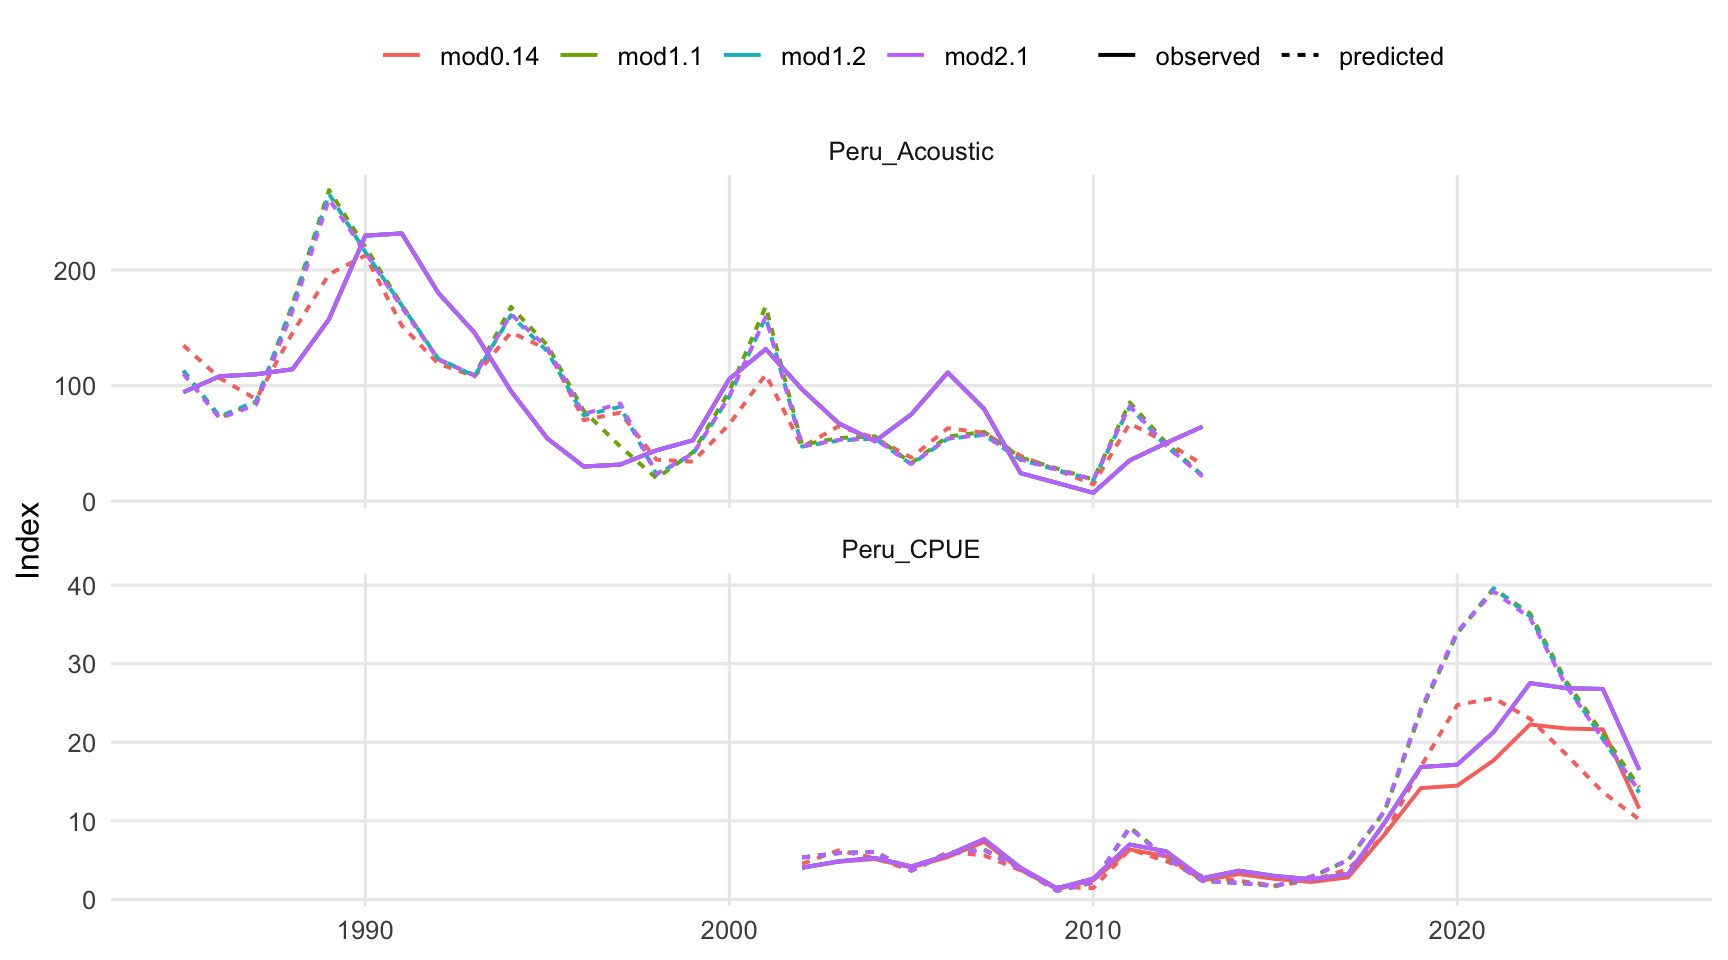
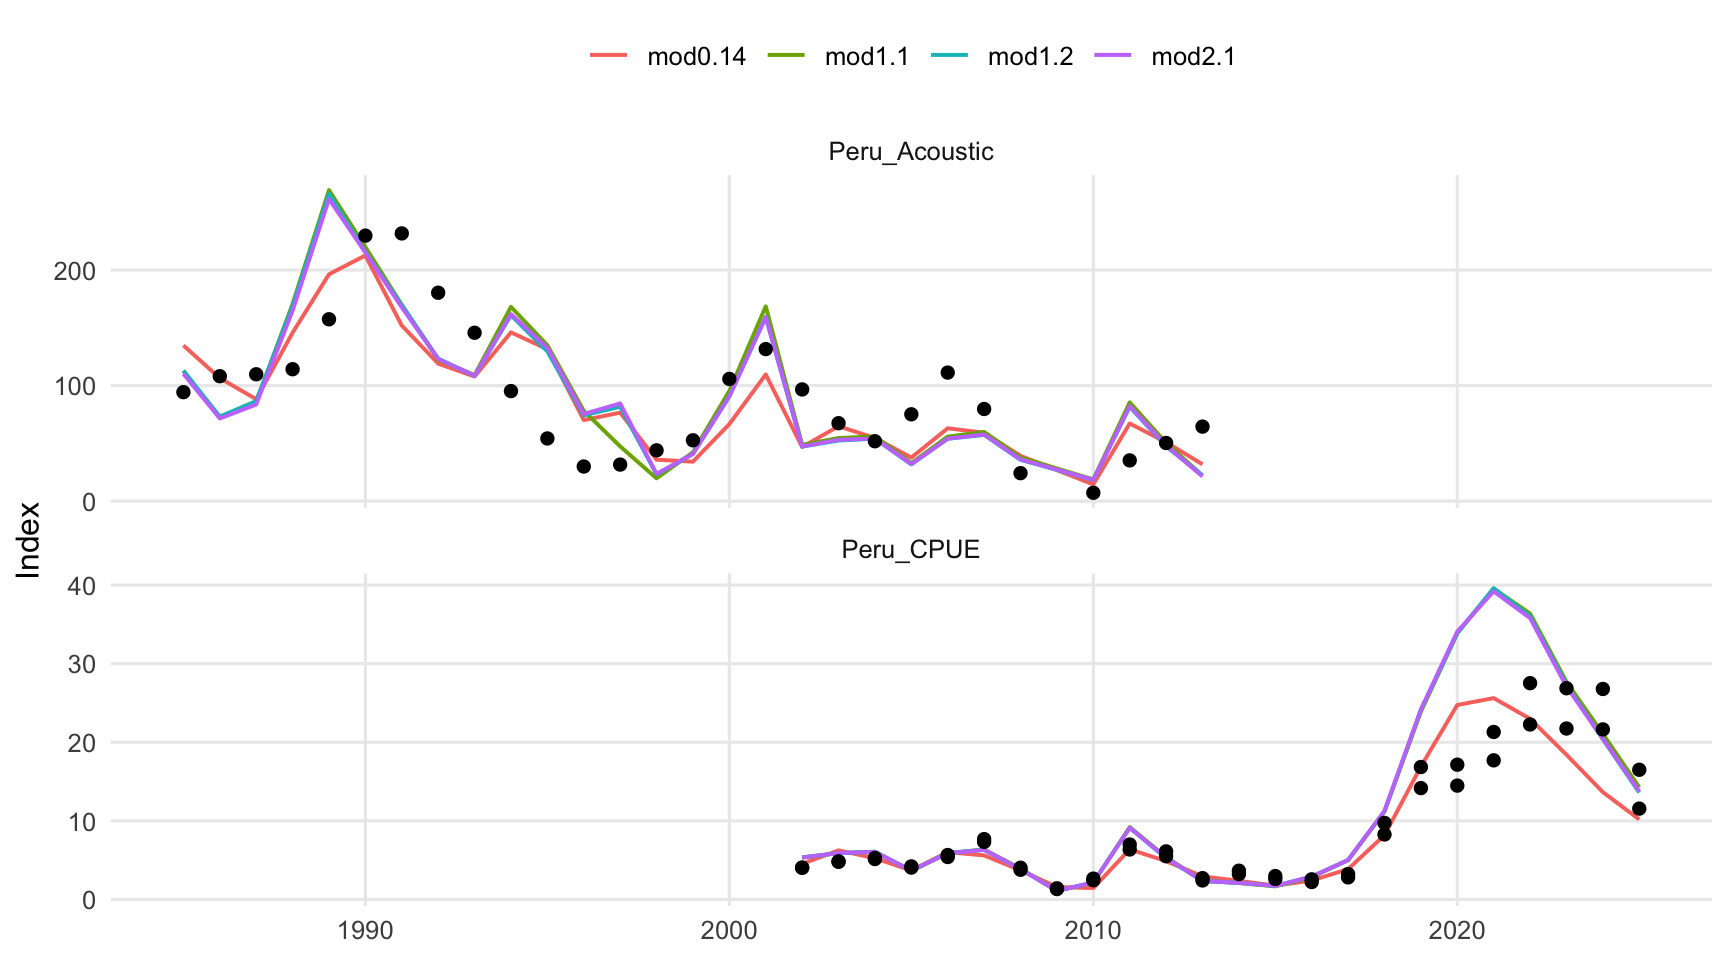
Show survey observations as points

diff --git a/docs/mod0.14_mod1.1_comparison.html b/docs/mod0.14_mod1.1_comparison.html
@@ -1436,38 +1436,46 @@ Table&nbsp;3: Likelihood component values.
 <span id="cb1-273"><a href="#cb1-273" aria-hidden="true" tabindex="-1"></a><span class="co">#| fig-cap: "Observed and predicted indices for the two Peru survey series."</span></span>
 <span id="cb1-274"><a href="#cb1-274" aria-hidden="true" tabindex="-1"></a><span class="co">#| echo: false</span></span>
 <span id="cb1-275"><a href="#cb1-275" aria-hidden="true" tabindex="-1"></a></span>
-<span id="cb1-276"><a href="#cb1-276" aria-hidden="true" tabindex="-1"></a>survey_comp <span class="sc">|&gt;</span></span>
-<span id="cb1-277"><a href="#cb1-277" aria-hidden="true" tabindex="-1"></a>  <span class="fu">pivot_longer</span>(<span class="fu">c</span>(observed, predicted), <span class="at">names_to =</span> <span class="st">"series"</span>, <span class="at">values_to =</span> <span class="st">"index"</span>) <span class="sc">|&gt;</span></span>
-<span id="cb1-278"><a href="#cb1-278" aria-hidden="true" tabindex="-1"></a>  <span class="fu">ggplot</span>(<span class="fu">aes</span>(year, index, <span class="at">color =</span> model, <span class="at">linetype =</span> series)) <span class="sc">+</span></span>
-<span id="cb1-279"><a href="#cb1-279" aria-hidden="true" tabindex="-1"></a>  <span class="fu">geom_line</span>(<span class="at">linewidth =</span> <span class="fl">0.7</span>) <span class="sc">+</span></span>
-<span id="cb1-280"><a href="#cb1-280" aria-hidden="true" tabindex="-1"></a>  <span class="fu">facet_wrap</span>(<span class="sc">~</span>survey, <span class="at">scales =</span> <span class="st">"free_y"</span>, <span class="at">ncol =</span> <span class="dv">1</span>) <span class="sc">+</span></span>
-<span id="cb1-281"><a href="#cb1-281" aria-hidden="true" tabindex="-1"></a>  <span class="fu">labs</span>(<span class="at">x =</span> <span class="cn">NULL</span>, <span class="at">y =</span> <span class="st">"Index"</span>, <span class="at">color =</span> <span class="cn">NULL</span>, <span class="at">linetype =</span> <span class="cn">NULL</span>) <span class="sc">+</span></span>
-<span id="cb1-282"><a href="#cb1-282" aria-hidden="true" tabindex="-1"></a>  <span class="fu">theme_report</span>()</span>
-<span id="cb1-283"><a href="#cb1-283" aria-hidden="true" tabindex="-1"></a><span class="in">```</span></span>
-<span id="cb1-284"><a href="#cb1-284" aria-hidden="true" tabindex="-1"></a></span>
-<span id="cb1-285"><a href="#cb1-285" aria-hidden="true" tabindex="-1"></a><span class="fu">## Likelihood Components</span></span>
-<span id="cb1-286"><a href="#cb1-286" aria-hidden="true" tabindex="-1"></a></span>
-<span id="cb1-289"><a href="#cb1-289" aria-hidden="true" tabindex="-1"></a><span class="in">```{r}</span></span>
-<span id="cb1-290"><a href="#cb1-290" aria-hidden="true" tabindex="-1"></a><span class="co">#| label: fig-likelihood-components</span></span>
-<span id="cb1-291"><a href="#cb1-291" aria-hidden="true" tabindex="-1"></a><span class="co">#| fig-cap: "Likelihood components by model."</span></span>
-<span id="cb1-292"><a href="#cb1-292" aria-hidden="true" tabindex="-1"></a><span class="co">#| echo: false</span></span>
-<span id="cb1-293"><a href="#cb1-293" aria-hidden="true" tabindex="-1"></a></span>
-<span id="cb1-294"><a href="#cb1-294" aria-hidden="true" tabindex="-1"></a><span class="fu">ggplot</span>(like_comp, <span class="fu">aes</span>(<span class="fu">reorder</span>(component, value), value, <span class="at">fill =</span> model)) <span class="sc">+</span></span>
-<span id="cb1-295"><a href="#cb1-295" aria-hidden="true" tabindex="-1"></a>  <span class="fu">geom_col</span>(<span class="at">position =</span> <span class="fu">position_dodge</span>(<span class="at">width =</span> <span class="fl">0.7</span>), <span class="at">width =</span> <span class="fl">0.65</span>) <span class="sc">+</span></span>
-<span id="cb1-296"><a href="#cb1-296" aria-hidden="true" tabindex="-1"></a>  <span class="fu">coord_flip</span>() <span class="sc">+</span></span>
-<span id="cb1-297"><a href="#cb1-297" aria-hidden="true" tabindex="-1"></a>  <span class="fu">labs</span>(<span class="at">x =</span> <span class="cn">NULL</span>, <span class="at">y =</span> <span class="st">"Likelihood component"</span>, <span class="at">fill =</span> <span class="cn">NULL</span>) <span class="sc">+</span></span>
-<span id="cb1-298"><a href="#cb1-298" aria-hidden="true" tabindex="-1"></a>  <span class="fu">theme_report</span>()</span>
-<span id="cb1-299"><a href="#cb1-299" aria-hidden="true" tabindex="-1"></a><span class="in">```</span></span>
-<span id="cb1-300"><a href="#cb1-300" aria-hidden="true" tabindex="-1"></a></span>
-<span id="cb1-303"><a href="#cb1-303" aria-hidden="true" tabindex="-1"></a><span class="in">```{r}</span></span>
-<span id="cb1-304"><a href="#cb1-304" aria-hidden="true" tabindex="-1"></a><span class="co">#| label: tbl-likelihood-components</span></span>
-<span id="cb1-305"><a href="#cb1-305" aria-hidden="true" tabindex="-1"></a><span class="co">#| tbl-cap: "Likelihood component values."</span></span>
-<span id="cb1-306"><a href="#cb1-306" aria-hidden="true" tabindex="-1"></a><span class="co">#| echo: false</span></span>
-<span id="cb1-307"><a href="#cb1-307" aria-hidden="true" tabindex="-1"></a></span>
-<span id="cb1-308"><a href="#cb1-308" aria-hidden="true" tabindex="-1"></a>like_comp <span class="sc">|&gt;</span></span>
-<span id="cb1-309"><a href="#cb1-309" aria-hidden="true" tabindex="-1"></a>  <span class="fu">pivot_wider</span>(<span class="at">names_from =</span> model, <span class="at">values_from =</span> value) <span class="sc">|&gt;</span></span>
-<span id="cb1-310"><a href="#cb1-310" aria-hidden="true" tabindex="-1"></a>  <span class="fu">kable</span>(<span class="at">digits =</span> <span class="dv">3</span>)</span>
-<span id="cb1-311"><a href="#cb1-311" aria-hidden="true" tabindex="-1"></a><span class="in">```</span></span>
+<span id="cb1-276"><a href="#cb1-276" aria-hidden="true" tabindex="-1"></a>survey_obs <span class="ot">&lt;-</span> survey_comp <span class="sc">|&gt;</span></span>
+<span id="cb1-277"><a href="#cb1-277" aria-hidden="true" tabindex="-1"></a>  <span class="fu">distinct</span>(survey, year, observed)</span>
+<span id="cb1-278"><a href="#cb1-278" aria-hidden="true" tabindex="-1"></a></span>
+<span id="cb1-279"><a href="#cb1-279" aria-hidden="true" tabindex="-1"></a><span class="fu">ggplot</span>(survey_comp, <span class="fu">aes</span>(year, predicted, <span class="at">color =</span> model)) <span class="sc">+</span></span>
+<span id="cb1-280"><a href="#cb1-280" aria-hidden="true" tabindex="-1"></a>  <span class="fu">geom_line</span>(<span class="at">linewidth =</span> <span class="fl">0.7</span>) <span class="sc">+</span></span>
+<span id="cb1-281"><a href="#cb1-281" aria-hidden="true" tabindex="-1"></a>  <span class="fu">geom_point</span>(</span>
+<span id="cb1-282"><a href="#cb1-282" aria-hidden="true" tabindex="-1"></a>    <span class="at">data =</span> survey_obs,</span>
+<span id="cb1-283"><a href="#cb1-283" aria-hidden="true" tabindex="-1"></a>    <span class="fu">aes</span>(year, observed),</span>
+<span id="cb1-284"><a href="#cb1-284" aria-hidden="true" tabindex="-1"></a>    <span class="at">inherit.aes =</span> <span class="cn">FALSE</span>,</span>
+<span id="cb1-285"><a href="#cb1-285" aria-hidden="true" tabindex="-1"></a>    <span class="at">color =</span> <span class="st">"black"</span>,</span>
+<span id="cb1-286"><a href="#cb1-286" aria-hidden="true" tabindex="-1"></a>    <span class="at">size =</span> <span class="fl">1.8</span></span>
+<span id="cb1-287"><a href="#cb1-287" aria-hidden="true" tabindex="-1"></a>  ) <span class="sc">+</span></span>
+<span id="cb1-288"><a href="#cb1-288" aria-hidden="true" tabindex="-1"></a>  <span class="fu">facet_wrap</span>(<span class="sc">~</span>survey, <span class="at">scales =</span> <span class="st">"free_y"</span>, <span class="at">ncol =</span> <span class="dv">1</span>) <span class="sc">+</span></span>
+<span id="cb1-289"><a href="#cb1-289" aria-hidden="true" tabindex="-1"></a>  <span class="fu">labs</span>(<span class="at">x =</span> <span class="cn">NULL</span>, <span class="at">y =</span> <span class="st">"Index"</span>, <span class="at">color =</span> <span class="cn">NULL</span>) <span class="sc">+</span></span>
+<span id="cb1-290"><a href="#cb1-290" aria-hidden="true" tabindex="-1"></a>  <span class="fu">theme_report</span>()</span>
+<span id="cb1-291"><a href="#cb1-291" aria-hidden="true" tabindex="-1"></a><span class="in">```</span></span>
+<span id="cb1-292"><a href="#cb1-292" aria-hidden="true" tabindex="-1"></a></span>
+<span id="cb1-293"><a href="#cb1-293" aria-hidden="true" tabindex="-1"></a><span class="fu">## Likelihood Components</span></span>
+<span id="cb1-294"><a href="#cb1-294" aria-hidden="true" tabindex="-1"></a></span>
+<span id="cb1-297"><a href="#cb1-297" aria-hidden="true" tabindex="-1"></a><span class="in">```{r}</span></span>
+<span id="cb1-298"><a href="#cb1-298" aria-hidden="true" tabindex="-1"></a><span class="co">#| label: fig-likelihood-components</span></span>
+<span id="cb1-299"><a href="#cb1-299" aria-hidden="true" tabindex="-1"></a><span class="co">#| fig-cap: "Likelihood components by model."</span></span>
+<span id="cb1-300"><a href="#cb1-300" aria-hidden="true" tabindex="-1"></a><span class="co">#| echo: false</span></span>
+<span id="cb1-301"><a href="#cb1-301" aria-hidden="true" tabindex="-1"></a></span>
+<span id="cb1-302"><a href="#cb1-302" aria-hidden="true" tabindex="-1"></a><span class="fu">ggplot</span>(like_comp, <span class="fu">aes</span>(<span class="fu">reorder</span>(component, value), value, <span class="at">fill =</span> model)) <span class="sc">+</span></span>
+<span id="cb1-303"><a href="#cb1-303" aria-hidden="true" tabindex="-1"></a>  <span class="fu">geom_col</span>(<span class="at">position =</span> <span class="fu">position_dodge</span>(<span class="at">width =</span> <span class="fl">0.7</span>), <span class="at">width =</span> <span class="fl">0.65</span>) <span class="sc">+</span></span>
+<span id="cb1-304"><a href="#cb1-304" aria-hidden="true" tabindex="-1"></a>  <span class="fu">coord_flip</span>() <span class="sc">+</span></span>
+<span id="cb1-305"><a href="#cb1-305" aria-hidden="true" tabindex="-1"></a>  <span class="fu">labs</span>(<span class="at">x =</span> <span class="cn">NULL</span>, <span class="at">y =</span> <span class="st">"Likelihood component"</span>, <span class="at">fill =</span> <span class="cn">NULL</span>) <span class="sc">+</span></span>
+<span id="cb1-306"><a href="#cb1-306" aria-hidden="true" tabindex="-1"></a>  <span class="fu">theme_report</span>()</span>
+<span id="cb1-307"><a href="#cb1-307" aria-hidden="true" tabindex="-1"></a><span class="in">```</span></span>
+<span id="cb1-308"><a href="#cb1-308" aria-hidden="true" tabindex="-1"></a></span>
+<span id="cb1-311"><a href="#cb1-311" aria-hidden="true" tabindex="-1"></a><span class="in">```{r}</span></span>
+<span id="cb1-312"><a href="#cb1-312" aria-hidden="true" tabindex="-1"></a><span class="co">#| label: tbl-likelihood-components</span></span>
+<span id="cb1-313"><a href="#cb1-313" aria-hidden="true" tabindex="-1"></a><span class="co">#| tbl-cap: "Likelihood component values."</span></span>
+<span id="cb1-314"><a href="#cb1-314" aria-hidden="true" tabindex="-1"></a><span class="co">#| echo: false</span></span>
+<span id="cb1-315"><a href="#cb1-315" aria-hidden="true" tabindex="-1"></a></span>
+<span id="cb1-316"><a href="#cb1-316" aria-hidden="true" tabindex="-1"></a>like_comp <span class="sc">|&gt;</span></span>
+<span id="cb1-317"><a href="#cb1-317" aria-hidden="true" tabindex="-1"></a>  <span class="fu">pivot_wider</span>(<span class="at">names_from =</span> model, <span class="at">values_from =</span> value) <span class="sc">|&gt;</span></span>
+<span id="cb1-318"><a href="#cb1-318" aria-hidden="true" tabindex="-1"></a>  <span class="fu">kable</span>(<span class="at">digits =</span> <span class="dv">3</span>)</span>
+<span id="cb1-319"><a href="#cb1-319" aria-hidden="true" tabindex="-1"></a><span class="in">```</span></span>
 </code></pre></div><button title="Copy to Clipboard" class="code-copy-button" data-in-quarto-modal=""><i class="bi"></i></button></div>
 </div></div></div></div></div>
 </div> <!-- /content -->